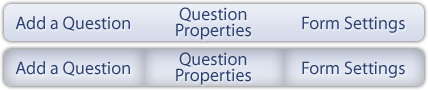
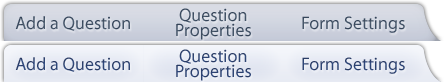
updating formbuilder UI --incomplete

diff --git a/pro-ctcae/web/src/main/webapp/css/common.css b/pro-ctcae/web/src/main/webapp/css/common.css
@@ -96,7 +96,7 @@ a img {
 	border-right-style: none;
 	border-bottom-style: none;
 	border-left-style: none;
-	vertical-align: middle;
+	/* vertical-align: middle; */
 }
 
 .eXtremeTable a img {
@@ -935,10 +935,6 @@ img.indicator {
 	padding-top: 5px;
 }
 
-.editing {
-	background-color: cadetblue;
-}
-
 .conditional-question {
 	background-color: brown;
 }
@@ -1023,6 +1019,64 @@ img.indicator {
 
 .formbuilderboxTable ul {
 	margin: 0px;
+}
+
+.editing .TL {
+	width: 12px;
+	height: 15px;
+	background-image: url( /ctcae/images/blue/formbuilderBox/orange/TL.png );
+	background-repeat: no-repeat;
+}
+
+.editing .T {
+	height: 15px;
+	background-image: url( /ctcae/images/blue/formbuilderBox/orange/T.png );
+	background-repeat: repeat-x;
+}
+
+.editing .TR {
+	width: 14px;
+	height: 15px;
+	background-image: url( /ctcae/images/blue/formbuilderBox/orange/TR.png );
+	background-repeat: no-repeat;
+}
+
+.editing .L {
+	width: 12px;
+	background-image: url( /ctcae/images/blue/formbuilderBox/orange/L.png );
+	background-repeat: repeat-y;
+}
+
+.editing .formbuilderboxContent {
+	background-color: #ffe2d4;
+	padding-top: 10px;
+	padding-bottom: 10px;
+}
+
+.editing .R {
+	width: 14px;
+	background-image: url( /ctcae/images/blue/formbuilderBox/orange/R.png );
+	background-repeat: repeat-y;
+}
+
+.editing .BL {
+	width: 12px;
+	height: 15px;
+	background-image: url( /ctcae/images/blue/formbuilderBox/orange/BL.png );
+	background-repeat: no-repeat;
+}
+
+.editing .B {
+	height: 15px;
+	background-image: url( /ctcae/images/blue/formbuilderBox/orange/B.png );
+	background-repeat: repeat-x;
+}
+
+.editing .BR {
+	width: 14px;
+	height: 15px;
+	background-image: url( /ctcae/images/blue/formbuilderBox/orange/BR.png );
+	background-repeat: no-repeat;
 }
 
 /*
@@ -1127,7 +1181,7 @@ these 3 rules define form builder controls styles
 */
 .formbuilderBoxControls {
 	position: absolute;
-	top: 3px;
+	top: 8px;
 	right: 20px;
 }
 
@@ -1227,4 +1281,10 @@ ul.tree ul ul li table div.formbuilderBoxControls-right {
 	height: 20px;
 	background-image: url( /ctcae/images/blue/add_all_btn.png );
 	background-repeat: no-repeat;
+}
+.formpages {
+	border:1px solid blue;
+	margin:10px;
+	background-color:#cdd4f7;
+	position:relative;
 }
